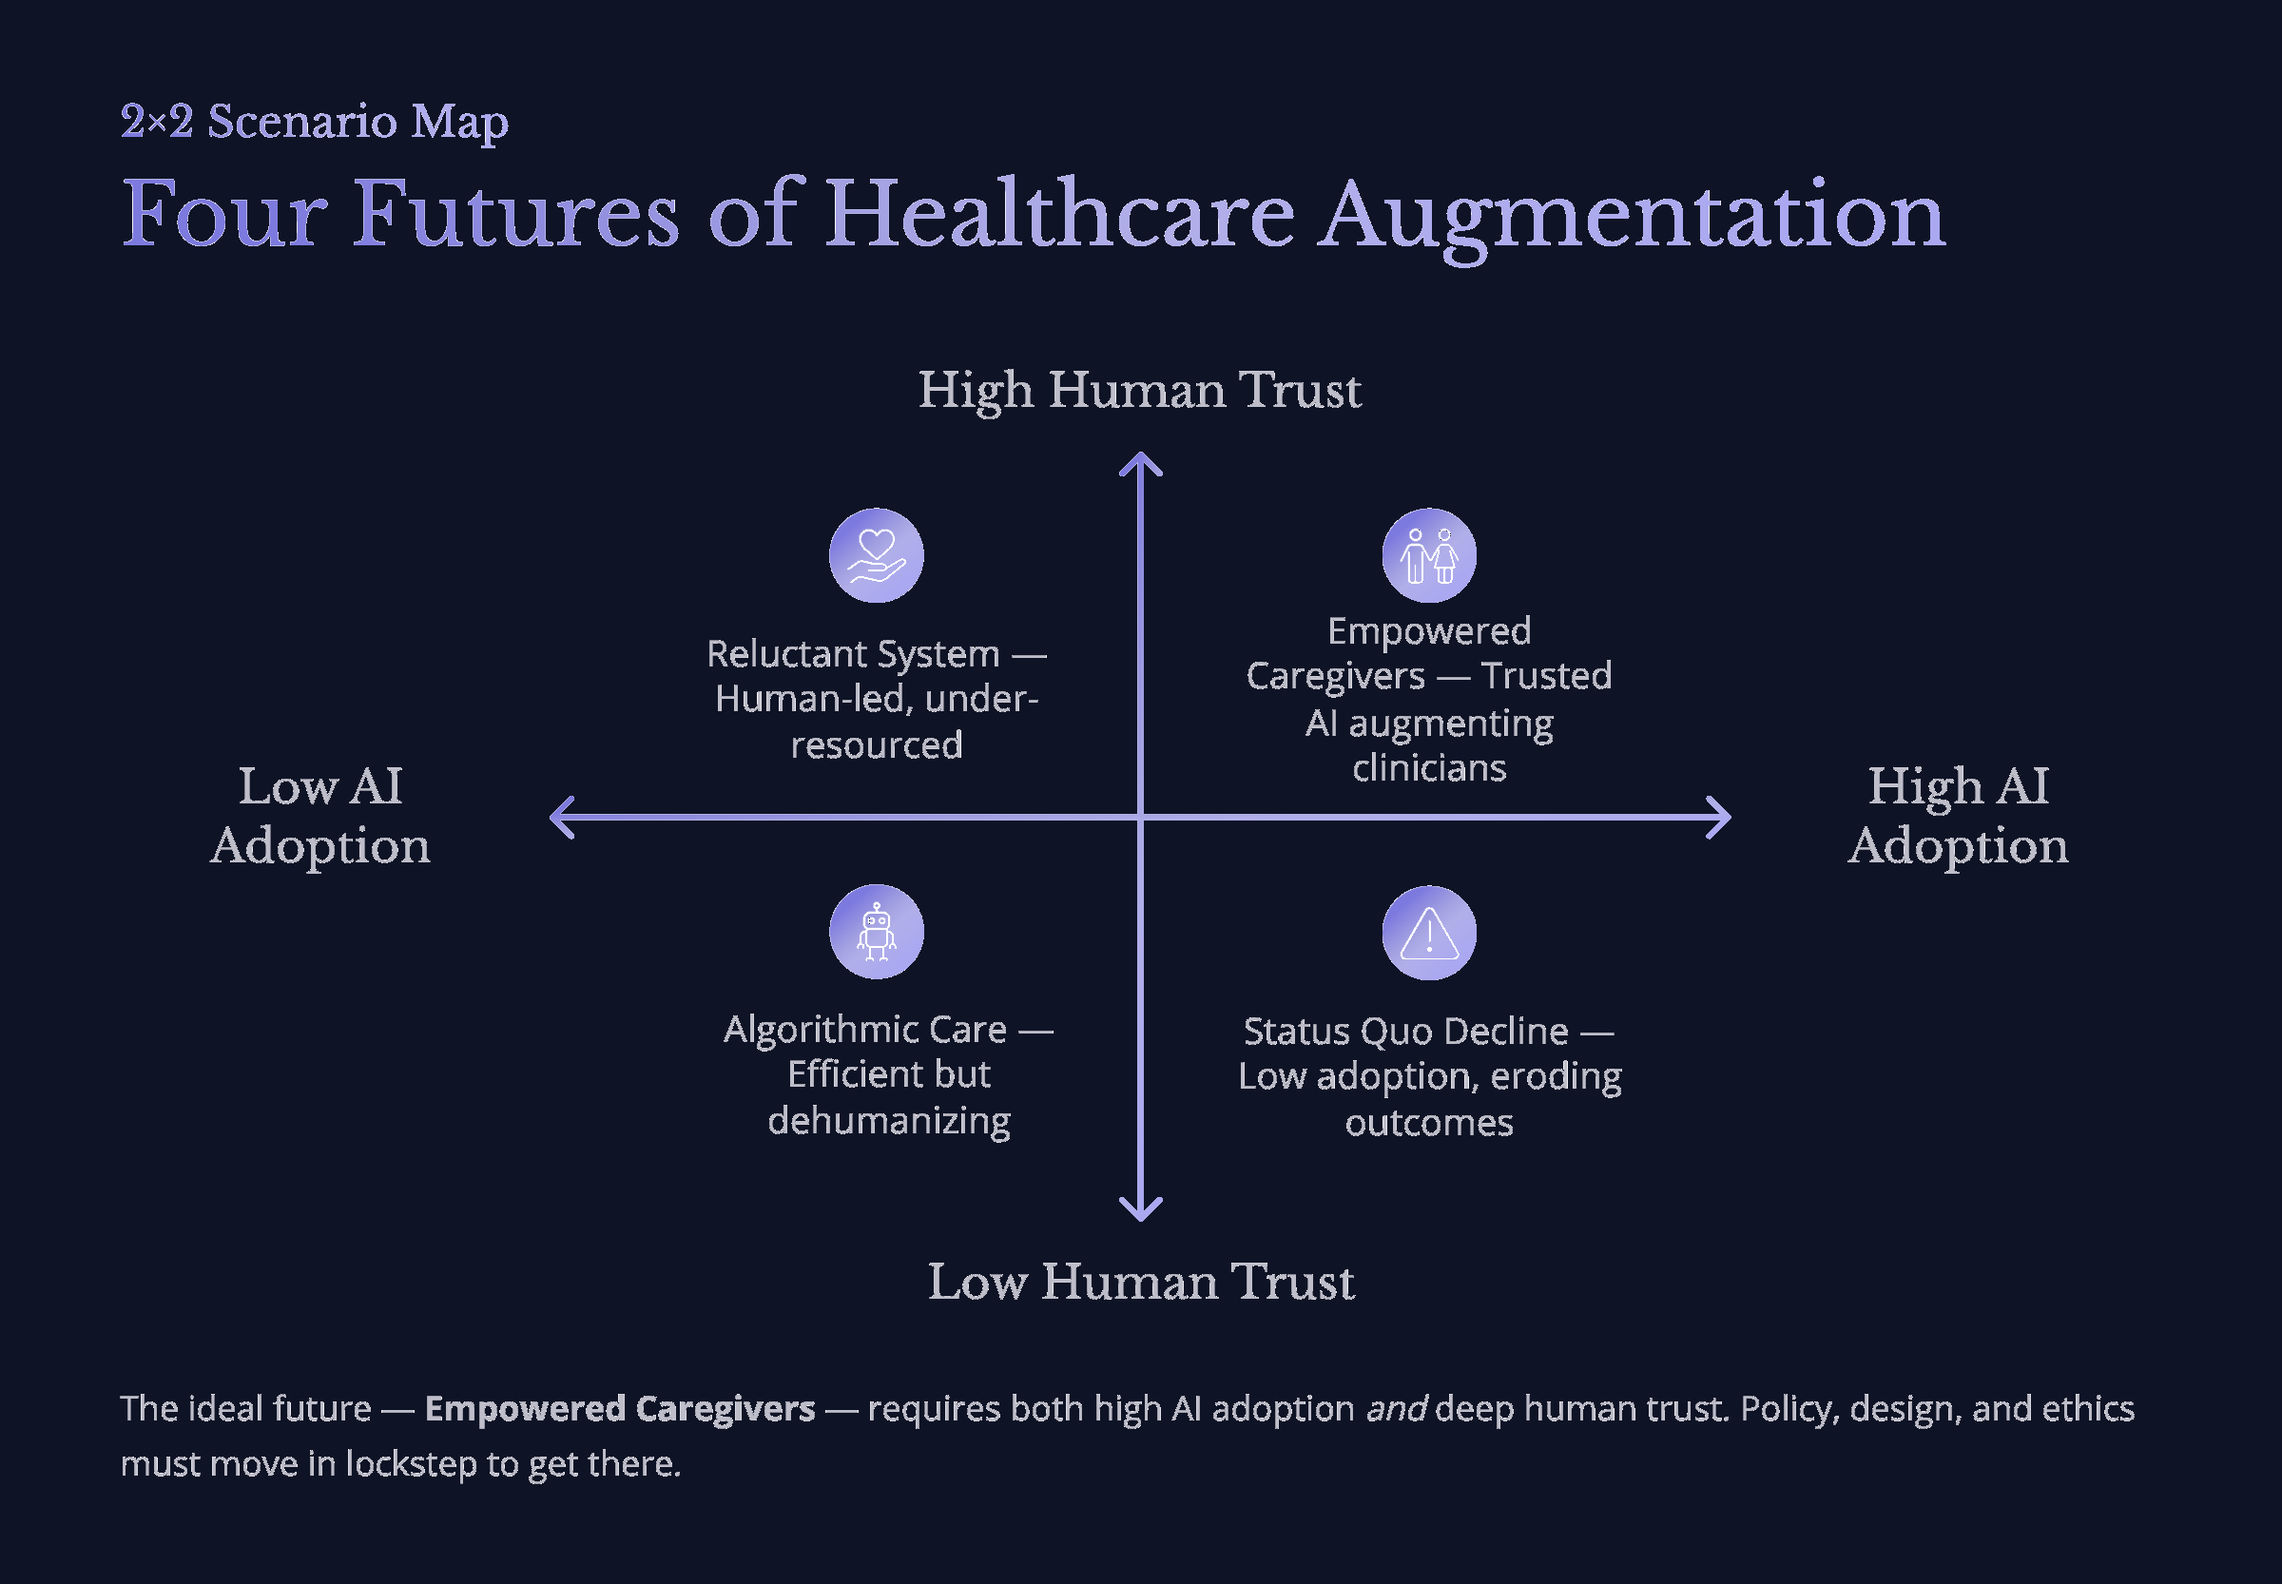
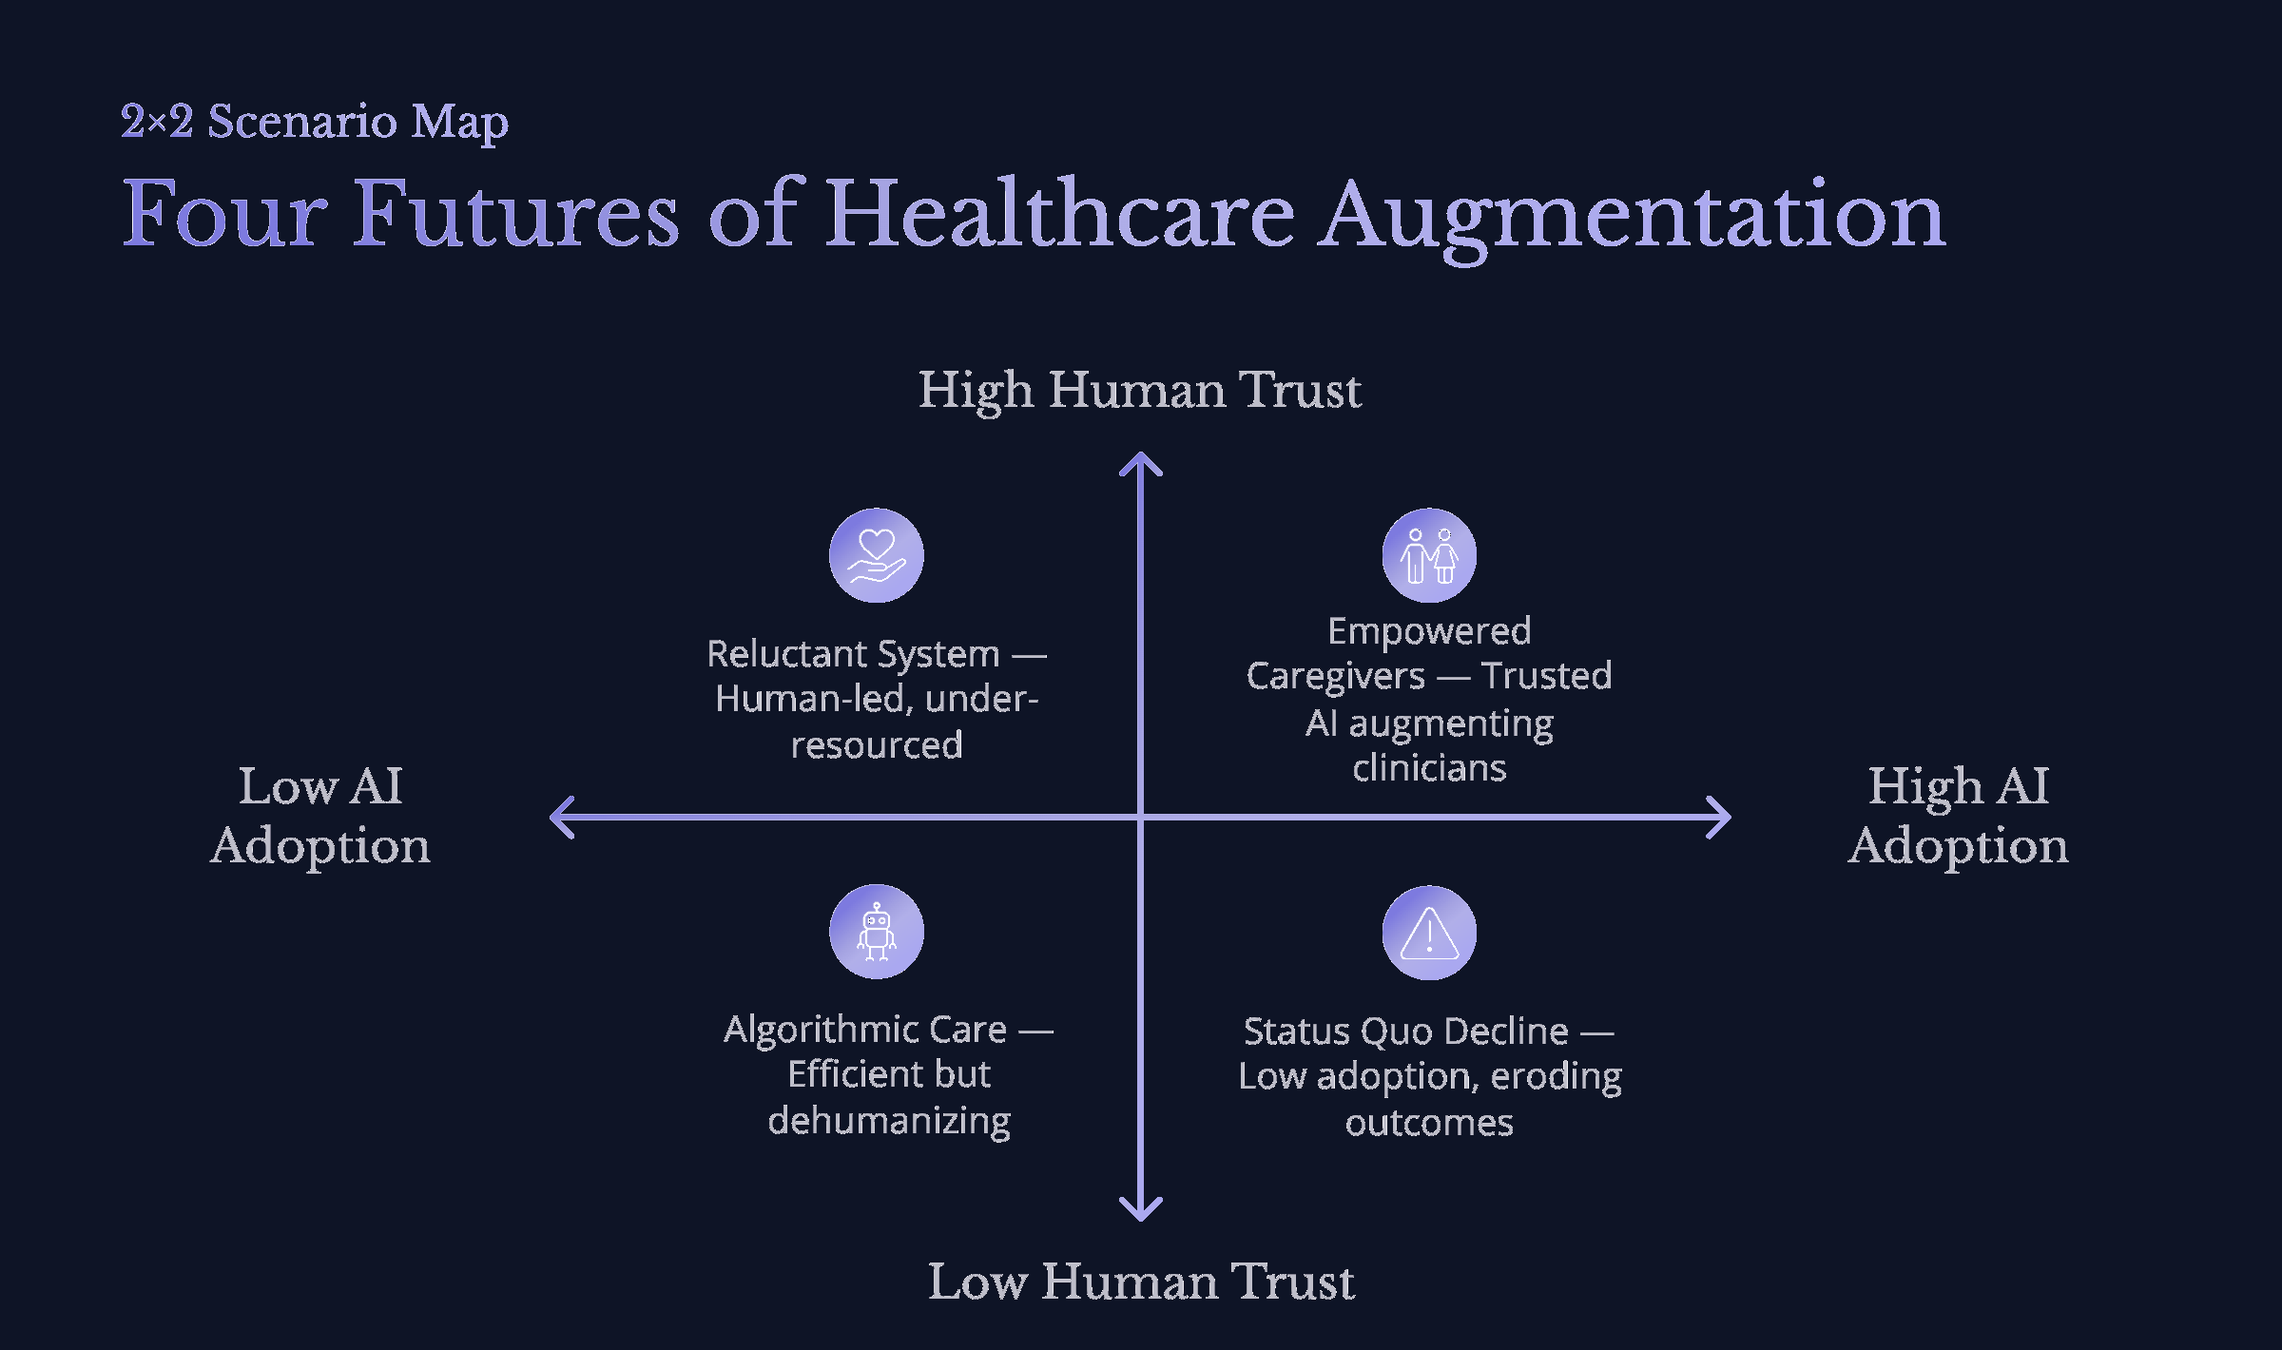
Gutsy: crop the scenario map's caption, keep the moodboard whole
- The 2x2 map now ends below the "Low Human Trust" axis label (cut at
  y=1420), dropping the caption paragraph and the GAMMA badge in one
  pass. Frame aspect follows the new crop.
- The moodboard is the full slide again, text panel included. The
  collage is split from the panel at x=900: inside it only the gutters
  are repainted so the photography is untouched, while the panel gets
  the same paper/ink treatment as the map. Its badge is painted out
  after the recolour, not before - doing it first meant the fill was
  read as artwork and lifted into a blue block.
- Slide copy no longer repeats the heading now visible in the image.

Claude-Session: https://claude.ai/code/session_01JGZMiJWn12CtdzbaRzb7zB

diff --git a/src/app/gutsy/page.tsx b/src/app/gutsy/page.tsx
@@ -273,7 +273,7 @@ export default function GutsyPage() {
                         <div className="bp-main">
                           <div className="bp-num">SECTION 02</div>
                           <h3 className="bp-title">2.0<br />Moodboard</h3>
-                          <p className="bp-desc">The aesthetic of ambient care. Calm intelligence, dignified technology: deep indigo confidence, soft lavender warmth, and material elegance — never clinical, always human.</p>
+                          <p className="bp-desc">The reference world the interface came from: ambient wearables worn without ceremony, soft materials against skin, and the indigo-and-lavender palette the product inherited.</p>
                         </div>
                         <div className="bp-content"><div className="bp-frame"><ImageSlot id="gutsy-ds-mood" placeholder="Moodboard · ambient care" /></div></div>
                         <div className="bp-foot"><span className="lbl">Design system</span><span className="pg">02</span></div>

diff --git a/src/app/gutsy/gutsy.css b/src/app/gutsy/gutsy.css
@@ -266,7 +266,7 @@
 .gutsy .fgrid.c1{grid-template-columns:minmax(0,860px);}
 /* the scenario map is recoloured to this surface's ground, so match the
    frame to the artwork's aspect and let it sit edge to edge */
-.gutsy .fgrid.c1 .frame .fbox{aspect-ratio:2400/1666;}
+.gutsy .fgrid.c1 .frame .fbox{aspect-ratio:2400/1420;}
 .gutsy .fgrid .frame .fbox img{object-fit:contain!important;}
 .gutsy .fgrid .frame .fbox{aspect-ratio:4/3;}
 .gutsy .fgrid.phones .frame .fbox{aspect-ratio:9/19.3;border-radius:30px;}
